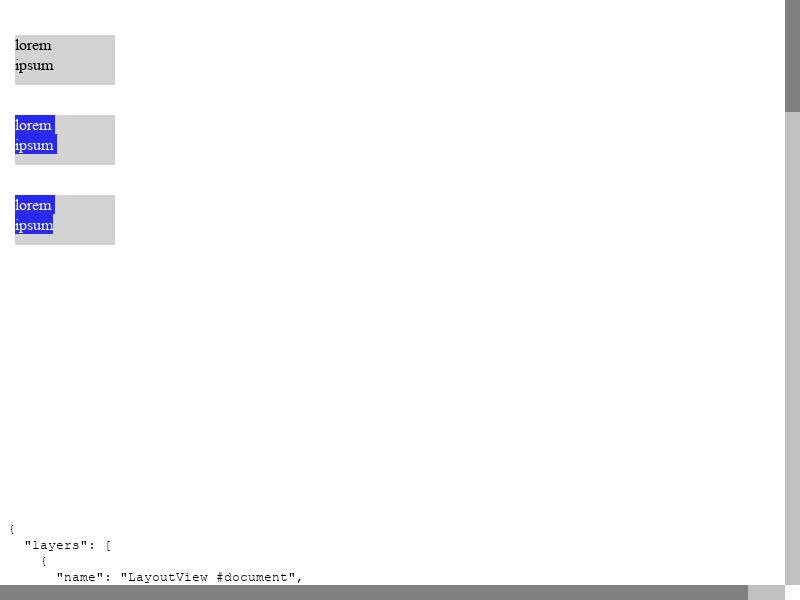
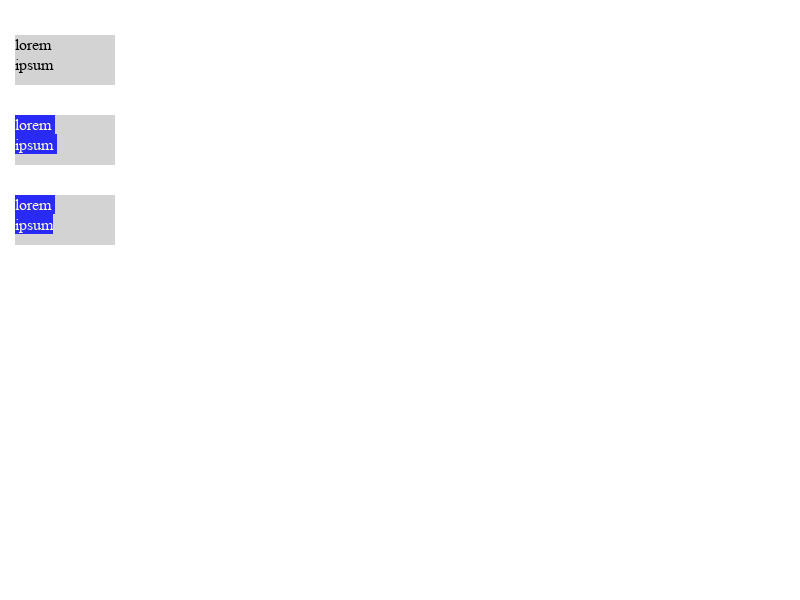
Refine selection paint test
This patch refines selection-repaint-with-gaps.html
It tests selection painting and invalidation.
It used to output layout tree into DOM and confirm its text
dump.
However it also output pixel result so output png was
 strange: it contained painted layer tree text dump.
This patch refines the test to dump:
- *.txt for layer tree
- *.png for paint result only contains selected text.

Bug: 739062
Commit-Queue: Yoichi Osato <yoichio@chromium.org>
Cr-Original-Commit-Position: refs/heads/master@{#506971}
Cr-Mirrored-From: https://chromium.googlesource.com/chromium/src
Cr-Mirrored-Commit: bd8f601cc21c47175888df3881b3f4d3da472ece

Changed region(s): [[0.0, 0.0, 1.0, 1.0], [0.0312, 0.9, 0.0938, 0.93]]

diff --git a/WebKit/LayoutTests/compositing/squashing/selection-repaint-with-gaps.html b/WebKit/LayoutTests/compositing/squashing/selection-repaint-with-gaps.html
@@ -21,19 +21,14 @@
    }
 </style>
 <script src="../../resources/run-after-layout-and-paint.js"></script>
-  
+
 <!-- This test checks whether repaint rects for selection on squashed layers is correct. -->
-  
+
 <div class="overlap"></div>
 <div style="top: 20px" class="item"><div class="inline-block">lorem ipsum</div></div>
 <div style="top: 100px" class="item" id="item1"><div class="inline-block">lorem ipsum</div></div>
 <div style="top: 180px" class="item" id="item2"><div class="inline-block">lorem ipsum</div></div>
 
-</div>
-<div id="output" style="display: none">
-    <pre id="case1"></pre>
-    <pre id="case2"></pre>
-</div>
 <script>
     if (window.testRunner) {
         testRunner.dumpAsTextWithPixelResults();
@@ -49,8 +44,9 @@
         // Case 1: selection that does not have any gaps.
         selection.setBaseAndExtent(document.querySelector("#item1"), 0, document.querySelector("#item1"), 1);
 
+        let layerTreeAsText = [];
         if (window.internals) {
-            document.querySelector('#case1').textContent = window.internals.layerTreeAsText(document, internals.LAYER_TREE_INCLUDES_PAINT_INVALIDATIONS);
+            layerTreeAsText.push(window.internals.layerTreeAsText(document, internals.LAYER_TREE_INCLUDES_PAINT_INVALIDATIONS));
             window.internals.stopTrackingRepaints(document);
         }
 
@@ -63,14 +59,13 @@
         selection.setBaseAndExtent(document.querySelector("#item1"), 0, document.querySelector("#item2"), 1);
 
         if (window.internals) {
-            document.querySelector('#case2').textContent = window.internals.layerTreeAsText(document, internals.LAYER_TREE_INCLUDES_PAINT_INVALIDATIONS);
+            layerTreeAsText.push(window.internals.layerTreeAsText(document, internals.LAYER_TREE_INCLUDES_PAINT_INVALIDATIONS));
             window.internals.stopTrackingRepaints(document);
         }
 
-        document.querySelector('#output').style.display = 'block';
-
-
-        if (window.testRunner)
+        if (window.testRunner) {
+            testRunner.setCustomTextOutput(layerTreeAsText.join(''));
             testRunner.notifyDone();
+        }
     });
 </script>
